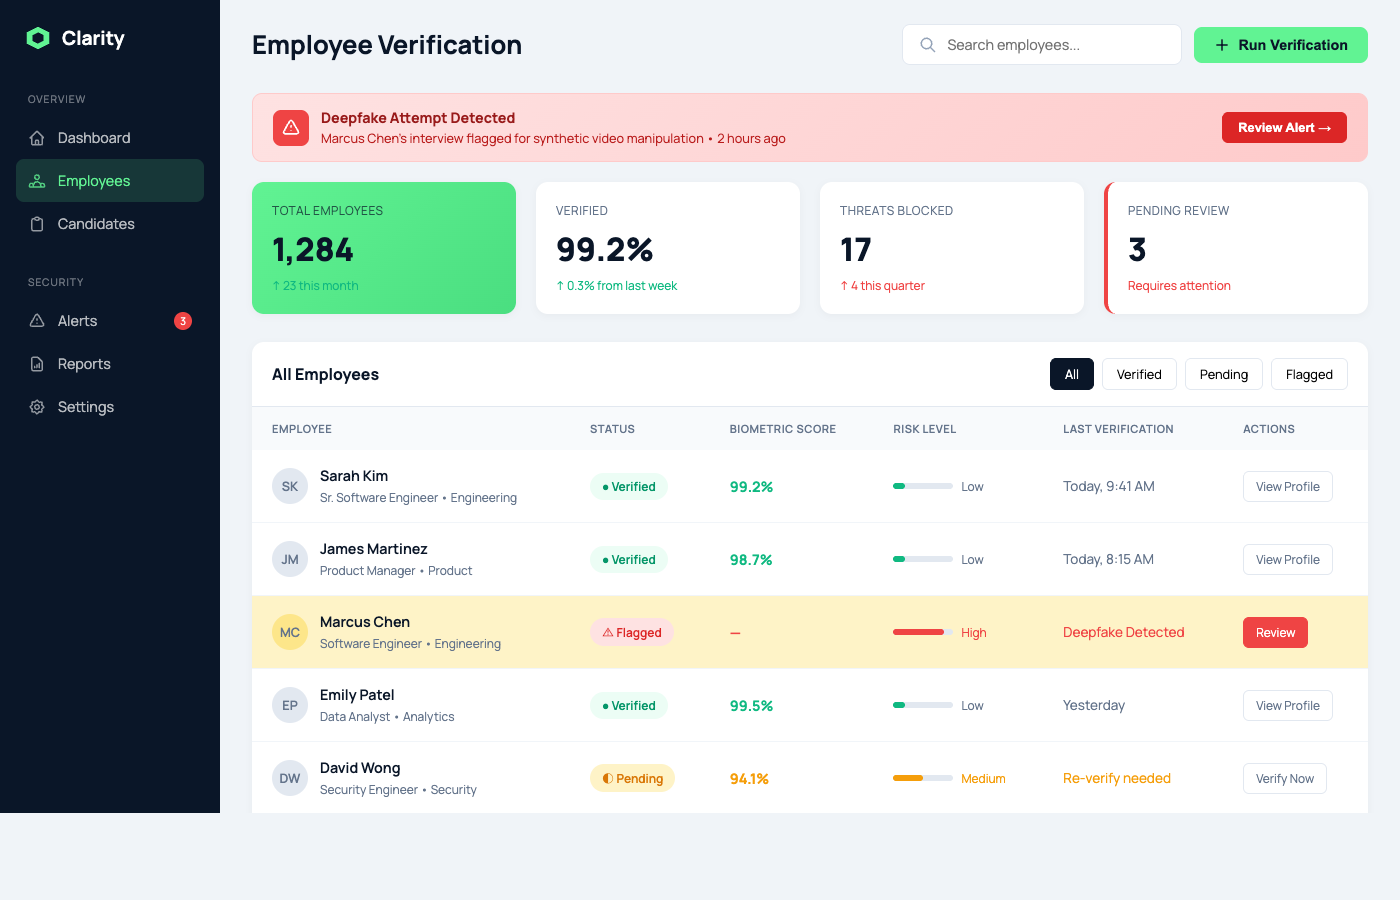
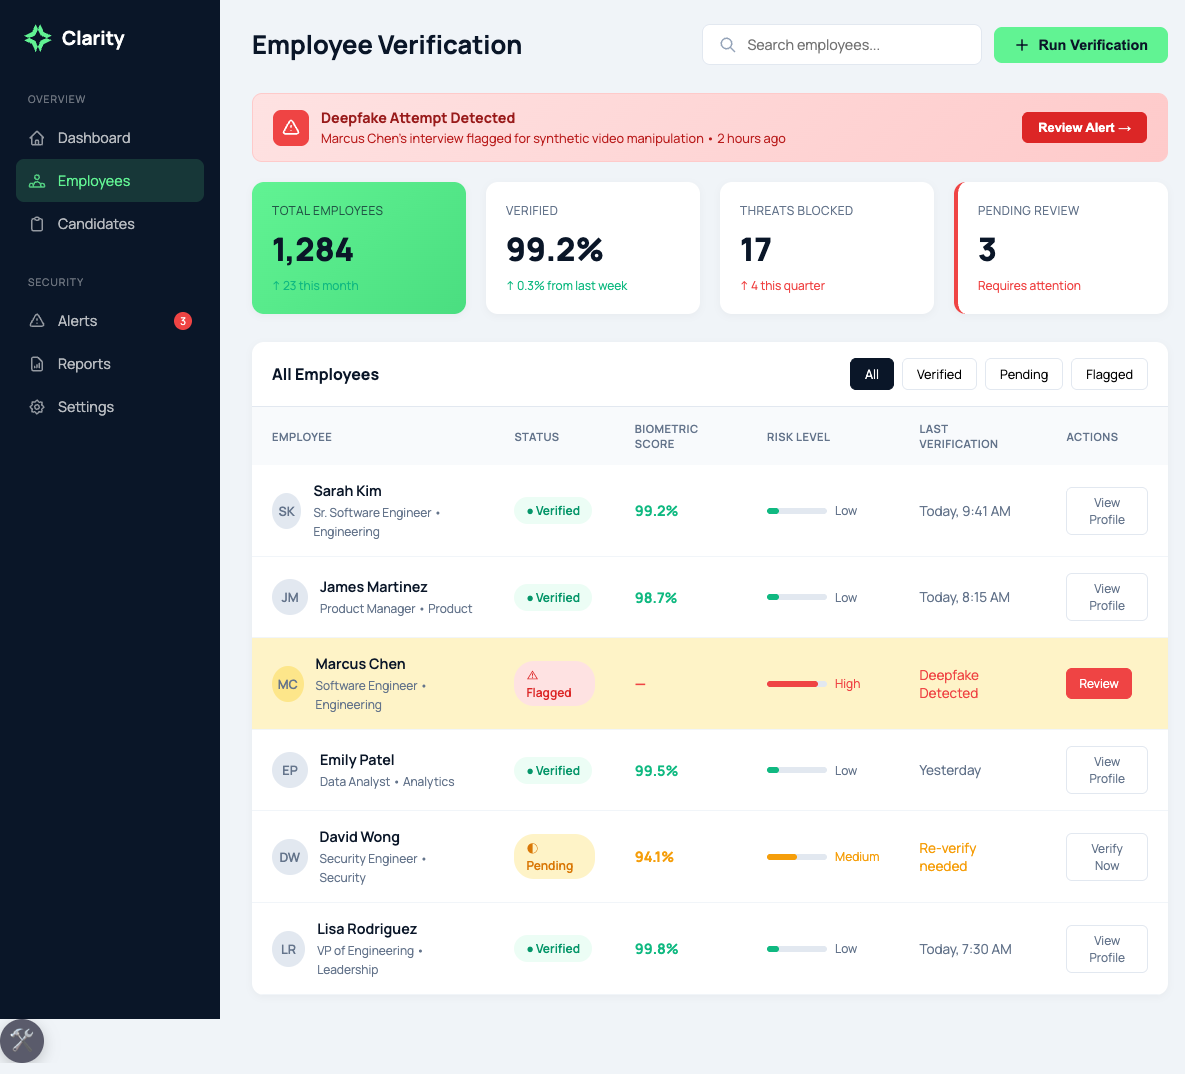
Update dashboard screenshot and increase visible area
- Fresh screenshot with real Clarity logo
- Increased max-height from 55vh to 65vh to show more rows

diff --git a/presentations/masterclass/index.html b/presentations/masterclass/index.html
@@ -1239,7 +1239,7 @@ function revealAnswer() {
             <p class="subtitle">This is what complete visibility looks like. Let's explore what you're seeing.</p>
         </div>
         
-        <div class="demo-frame" style="box-shadow: 0 20px 60px rgba(10, 22, 40, 0.15); border-radius: 12px; overflow: hidden; border: 1px solid rgba(10, 22, 40, 0.1); max-height: 55vh;">
+        <div class="demo-frame" style="box-shadow: 0 20px 60px rgba(10, 22, 40, 0.15); border-radius: 12px; overflow: hidden; border: 1px solid rgba(10, 22, 40, 0.1); max-height: 65vh;">
             <img src="../../shared/screenshots/dashboard.png" alt="Clarity Employee Dashboard" style="width: 100%; height: 100%; object-fit: cover; object-position: top; display: block;">
         </div>
         
